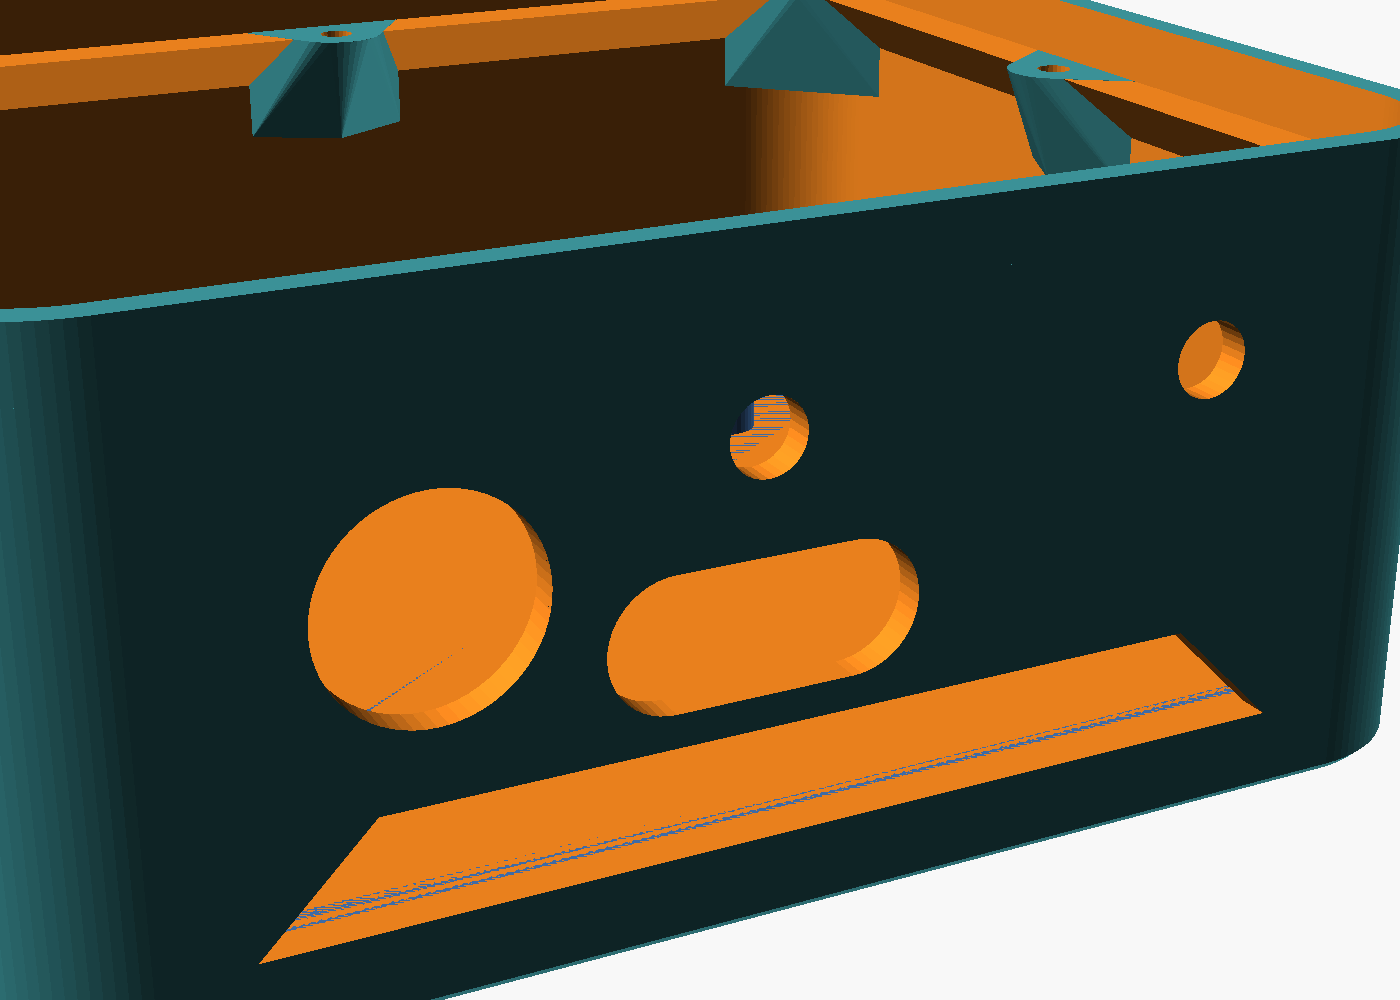
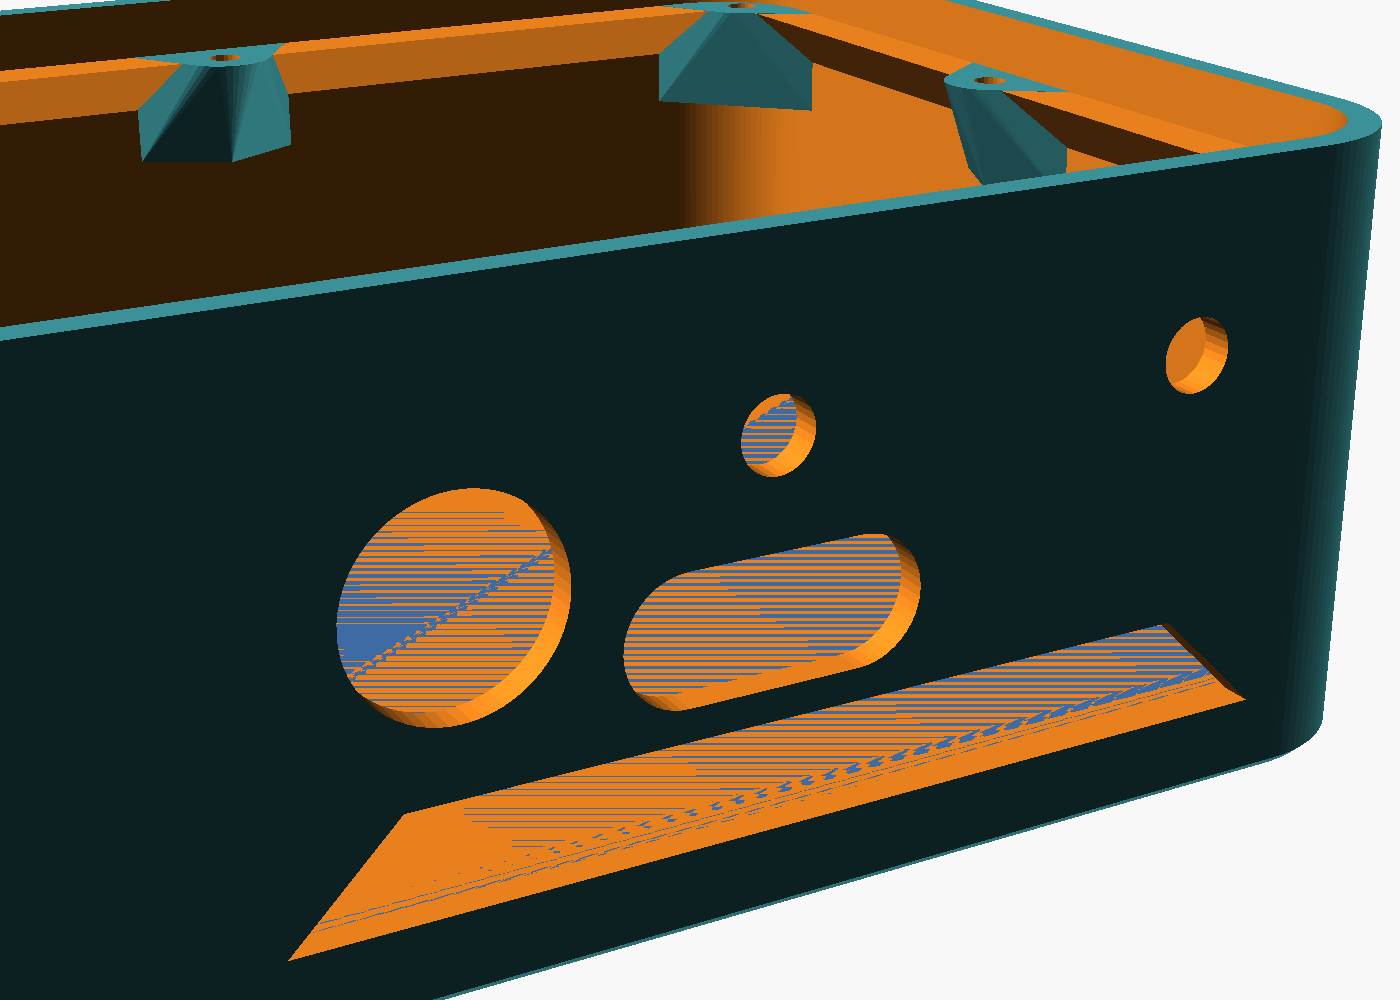
base v4: tub 150 wide, Orin shifted 10 right: 32 mm power channel on the left with a boss + M3 insert for the split terminal block; back-wall features follow the Orin

diff --git a/hardware/wiring.md b/hardware/wiring.md
@@ -46,7 +46,7 @@ stepper any more.
 
 | From | To | Wire | Notes |
 | --- | --- | --- | --- |
-| DC jack + / − | split block + / − | 16–18 AWG | the block sits in the 16 mm gap between the Orin and the left wall, forward of the jack: a pair of lever nuts or a small 2-way terminal block, taped or tied down (the old fuse-block bosses are gone; they were where the carrier's DC plug goes) |
+| DC jack + / − | split block + / − | 16–18 AWG | the block (2 poles cut from a uxcell X3-2012 strip) sits in the **power channel**, the 32 mm gap between the Orin and the left wall, just in front of the jack: screws up, wire tubes running front to back, one M3 screw through its centre mounting hole into a heat-set insert in the floor boss. Its screws can be tightened from above with the lid off |
 | Split block + / − | Orin carrier DC jack | 18 AWG, DC plug pigtail | always on: the power button controls the Jetson, not this feed |
 | Split block + | inline fuse holder (**4 A fast-blow**, 5 × 20 mm) | 16 AWG (the holder's own leads) | lies along the plug zone's back wall; change the fuse with the lid off |
 | Fuse holder | servo adapter DC terminal **+** | 16 AWG | up through the lid slot |
@@ -137,7 +137,7 @@ both its power and its serial link to the Orin (it shows up as `303A:1001`).
 - **Lid slot:** everything going down to the Orin, the hub cables and the servo adapter's USB, drops
   through the lid's slot into the plug zone; the USB-A ends then leave through the back wall's USB slot.
 - **Wi-Fi antennas:** two 6.5 mm holes in the back wall, 43 mm up
-  (centres 4 mm left and 38 mm right of the wall's centre line, 42 mm apart; the left one sits over the USB slot's centre), just under the lid
+  (centres 6 mm and 48 mm right of the wall's centre line, 42 mm apart; the left one sits over the USB slot's centre), just under the lid
   ledge's slope so the inner nuts sit flat on the wall; their pigtails run to the Wi-Fi card's U.FL sockets along the plug zone.
 - **USB slot (back wall):** the three USB-A ends (camera, XIAO, servo adapter) come down the lid
   slot, pass out of the tub through the 28 x 12 mm slot just above the port window, loop down outside
